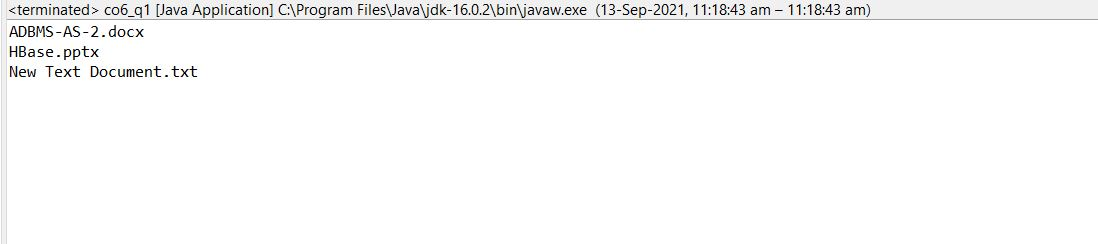
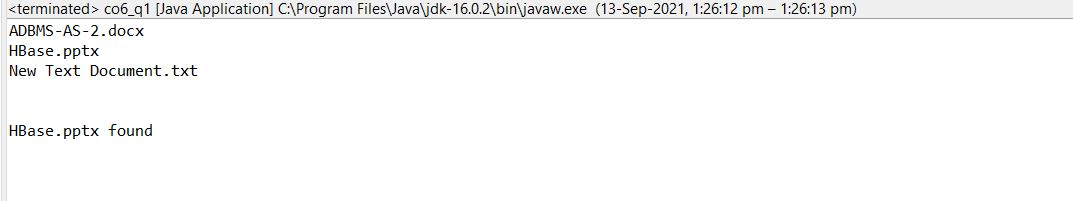
modified

Changed region(s): [[0.0, 0.0, 1.0, 0.3881], [0.0, 0.6269, 0.1538, 0.6866]]

diff --git a/CO6/q1/co6_q1.java b/CO6/q1/co6_q1.java
@@ -1,8 +1,10 @@
 import java.io.File;
+import java.util.*;
 public class co6_q1 {
 
 	public static void main(String[] args) {
 		// TODO Auto-generated method stub
+		Scanner sc=new Scanner(System.in);
         String[] pathnames;
 
         // Creates a new File instance by converting the given pathname string
@@ -17,6 +19,22 @@ public class co6_q1 {
             // Print the names of files and directories
             System.out.println(pathname);
         }
+        String[] fileList = f.list();
+        int flag=0;
+		for(int i=0; i < fileList.length; i++)
+		{
+			String filename  = fileList[i];
+			if(filename.equalsIgnoreCase("HBase.pptx"))
+			{
+				System.out.println("\n\n" +filename + " found");
+                flag=1;
+			}
+		}
+		if(flag == 0) 
+		{
+            System.out.println("\n\nFile Not Found");
+        }
+        
     }
 
 
